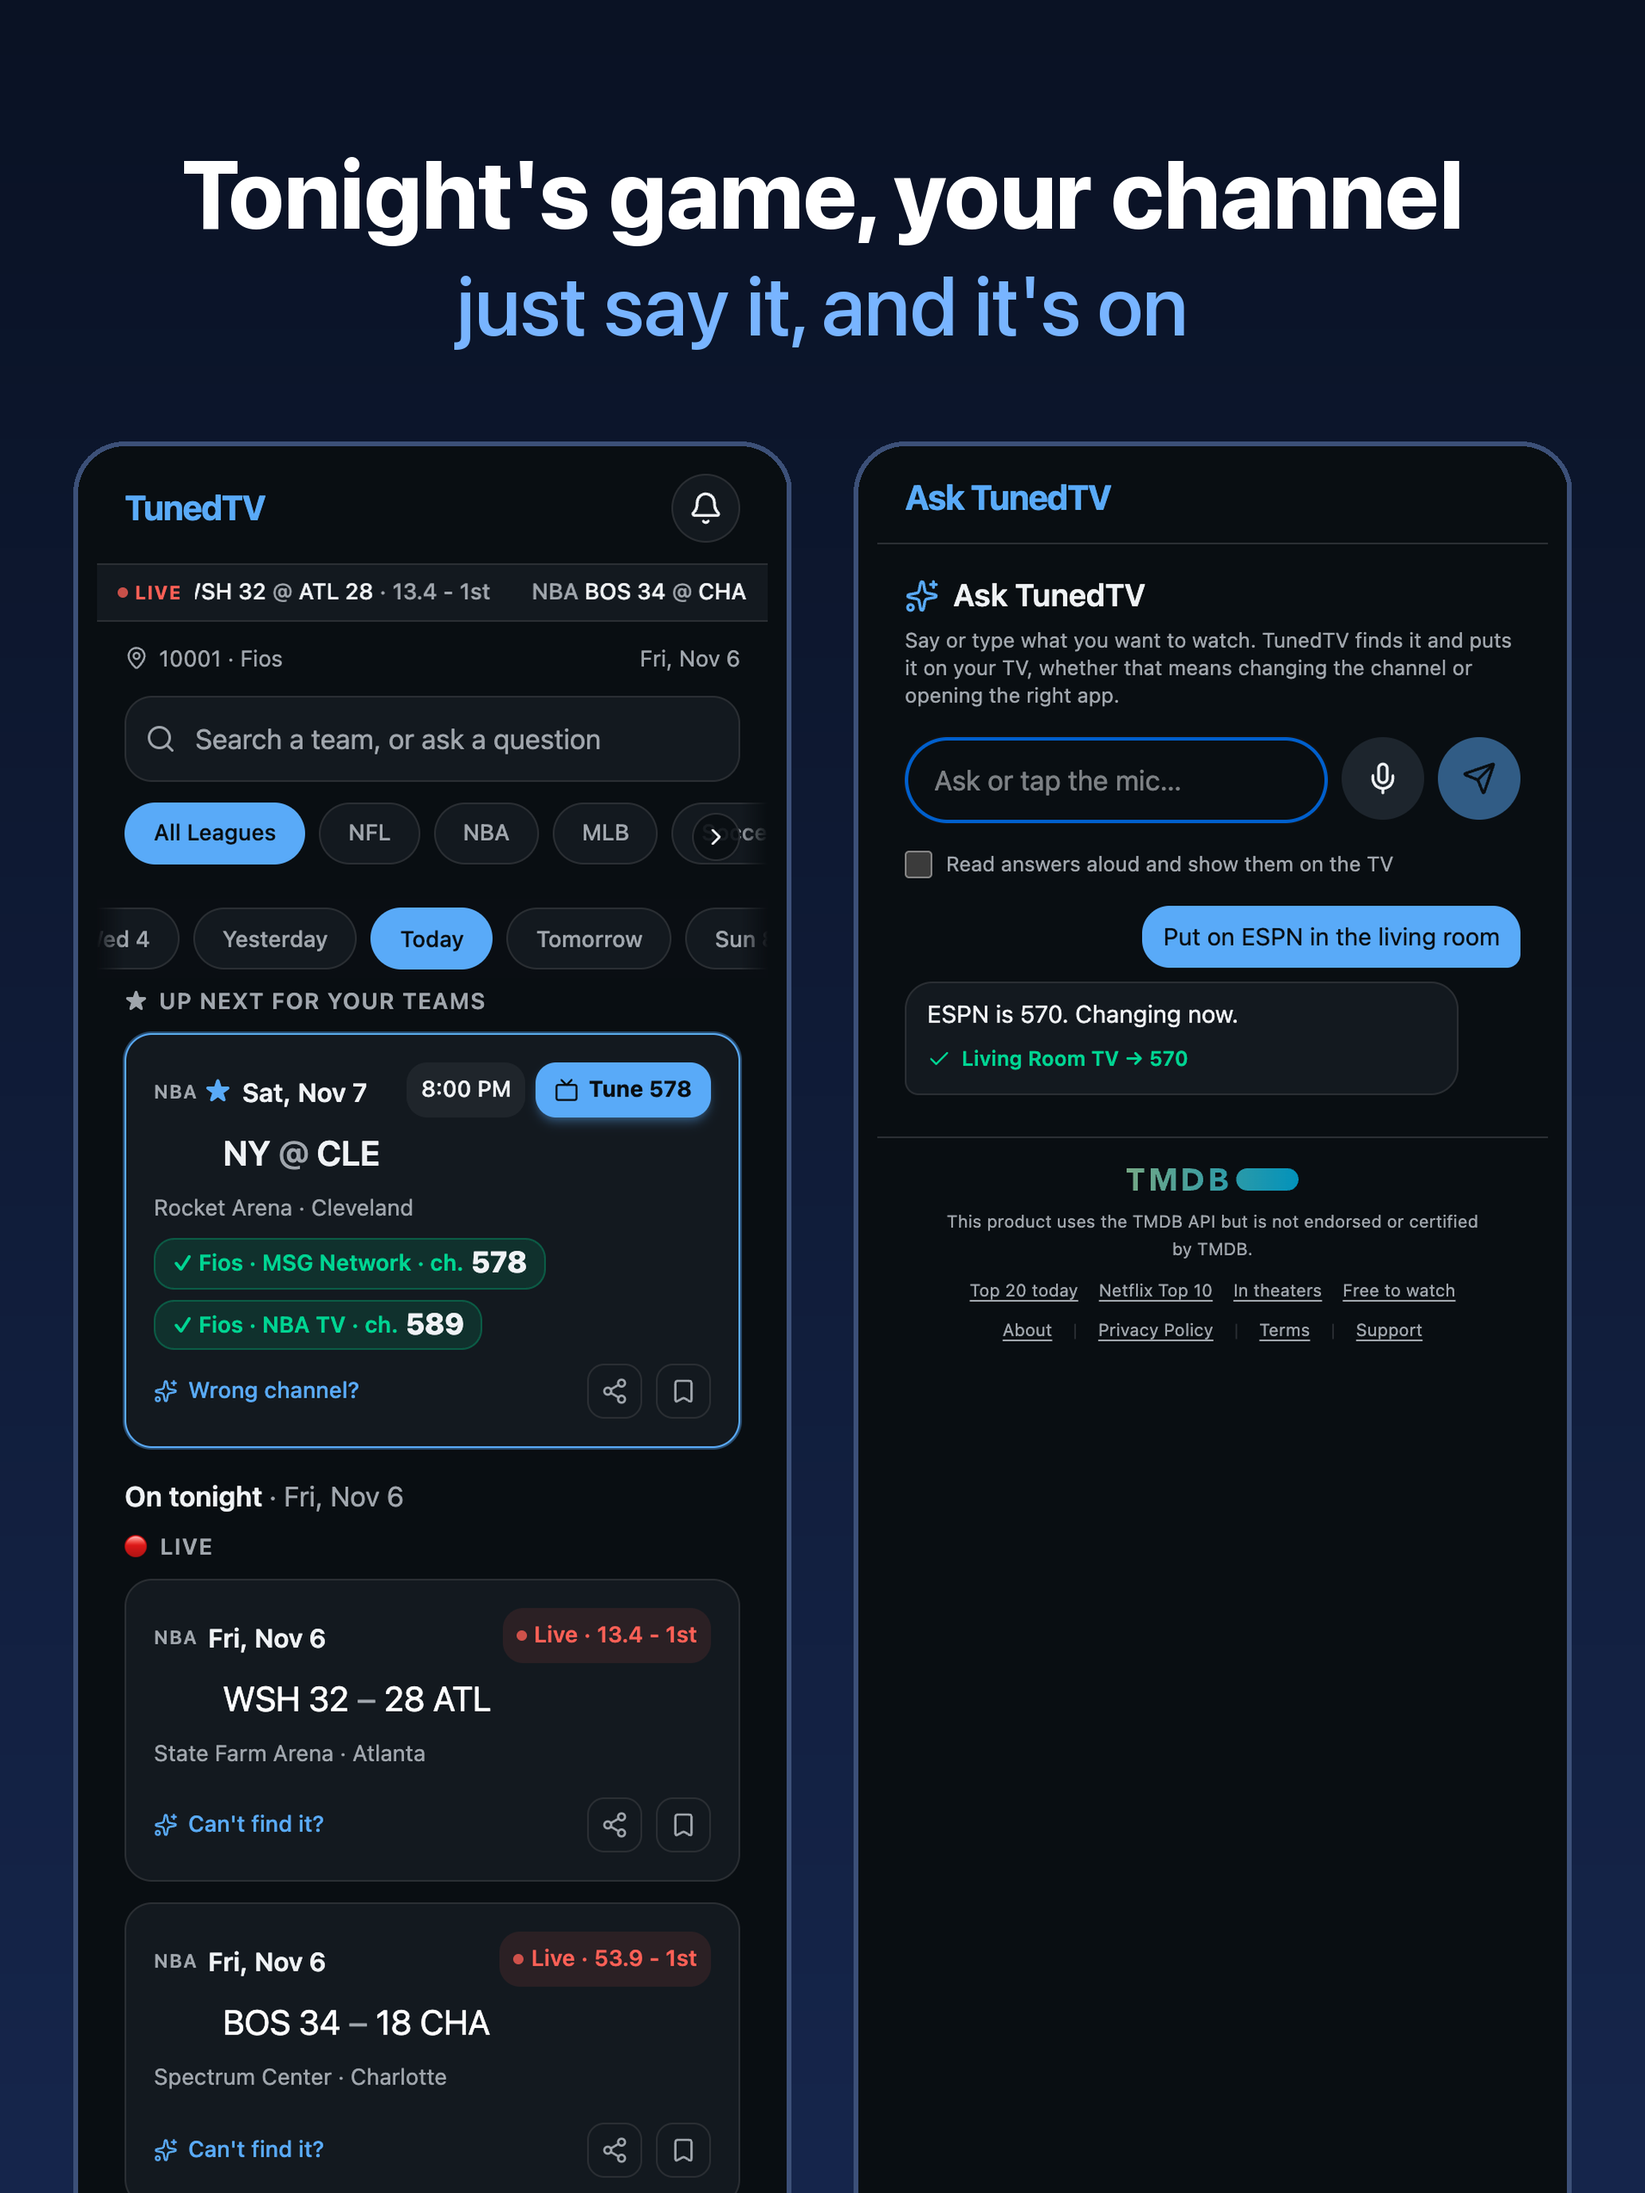
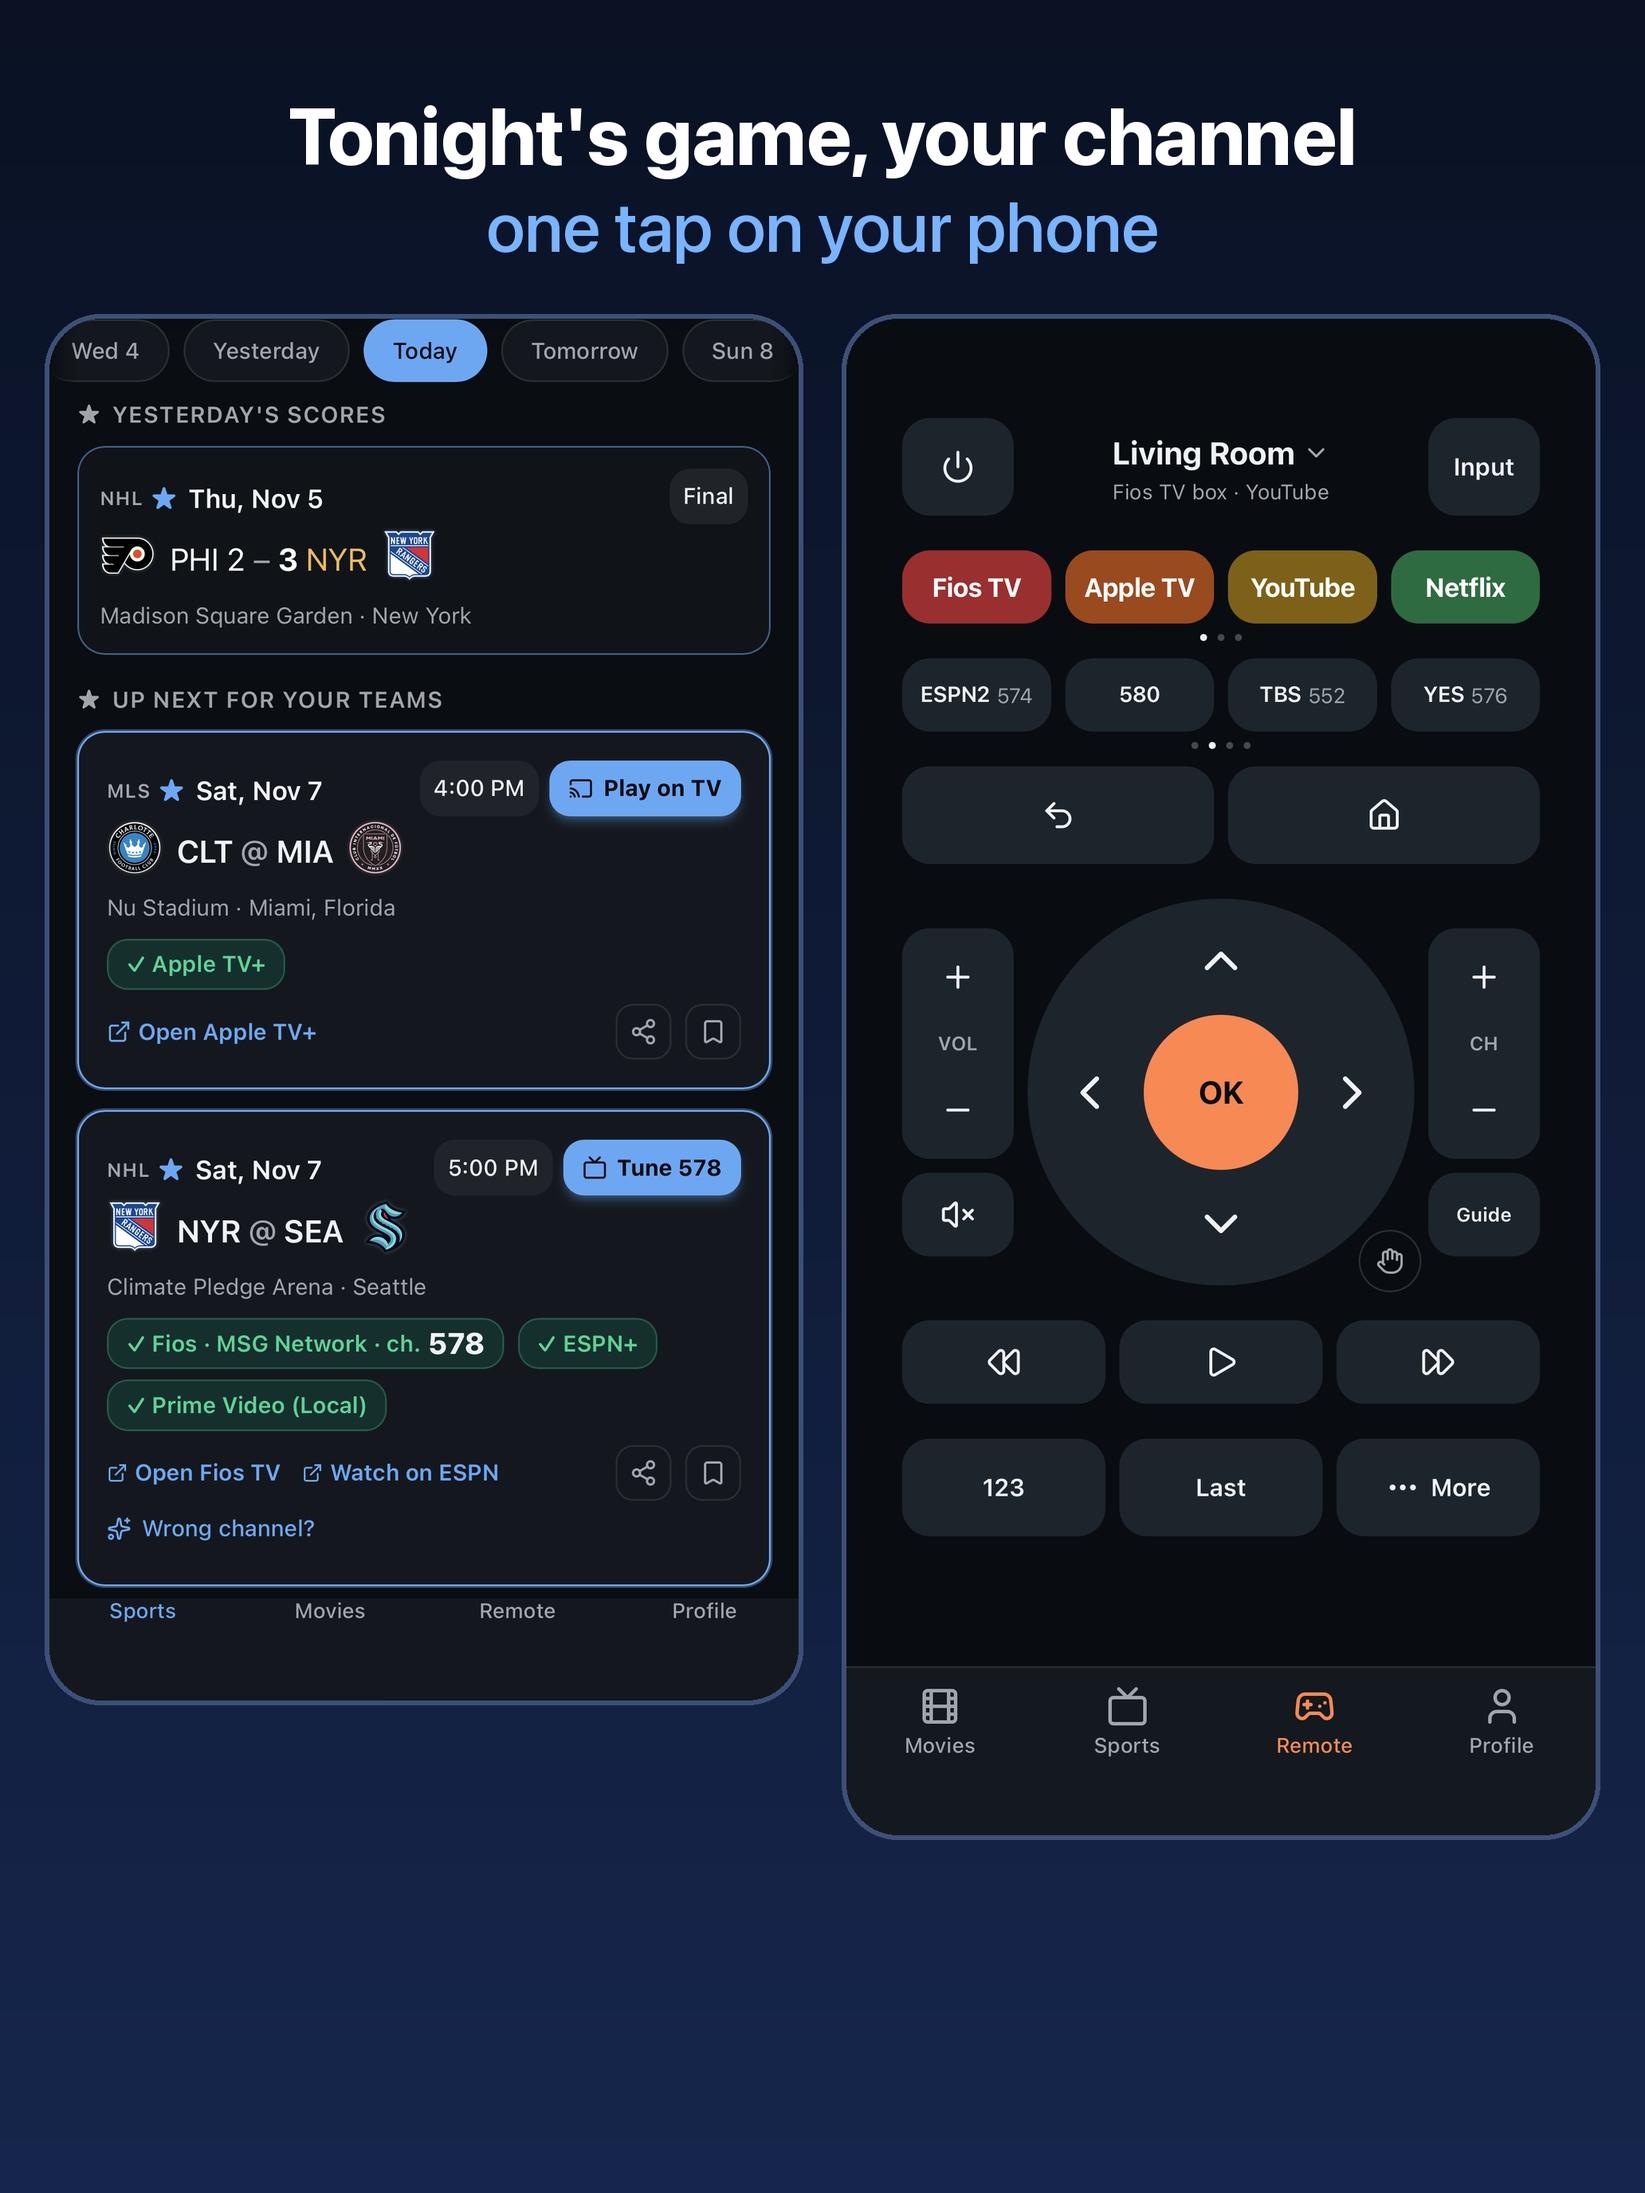
1.0.19 store: real-phone sports, movie tab, title page, and a larger remote

diff --git a/docs/app-store-1.0.19.md b/docs/app-store-1.0.19.md
@@ -43,13 +43,16 @@ All in `app-store-screenshots/1.0.19/`, captured from the live app 2026-11-06 (d
 image is the lead because "the channel for tonight's game, one tap" is the reason to download; a
 plain universal remote is a crowded pitch. Drag in this order and delete the old ones:
 
-iPhone 6.5" (1284x2778):
+iPhone 6.5" (1284x2778), from the real phone 2026-11-06, status bar removed:
 1. `iphone-6.5-1-sports.png` Tonight's game, your channel, and one tap puts it on
 2. `iphone-6.5-2-ask.png` Just say what you want on, and your TV changes
-3. `iphone-6.5-3-remote.png` No TV handy? Try it on the demo TV
-4. `iphone-6.5-0-one-remote.png` One remote for every TV
+3. `iphone-6.5-3-remote.png` The remote on your phone, your channels, one tap
+4. `iphone-6.5-7-swipe.png` Prefer to swipe? Tap the corner to switch
+5. `iphone-6.5-5-movies.png` What to watch tonight, picked for you
+6. `iphone-6.5-6-ontv.png` Play it on your TV, or open it on your phone
+   (the button names the TV by its model number; skip this one if that reads badly)
 
-iPad 13" (2064x2752): `ipad-13-1-sports.png`, then `ipad-13-0-one-remote.png`
+iPad 13" (2064x2752): `ipad-13-1-sports.png` (the game and the real remote, side by side)
 
 Left out on purpose: the movies and title screens. Their posters and backdrop stills are
 studio-owned artwork, and TMDB's terms say they don't own those images and don't license them for
